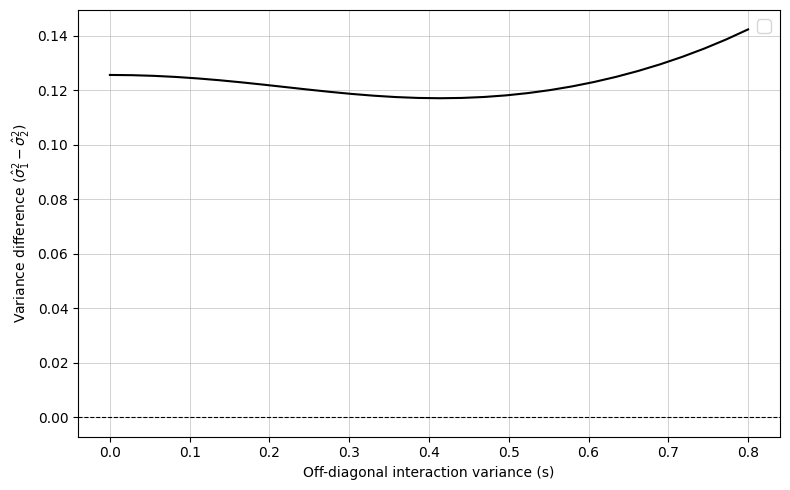
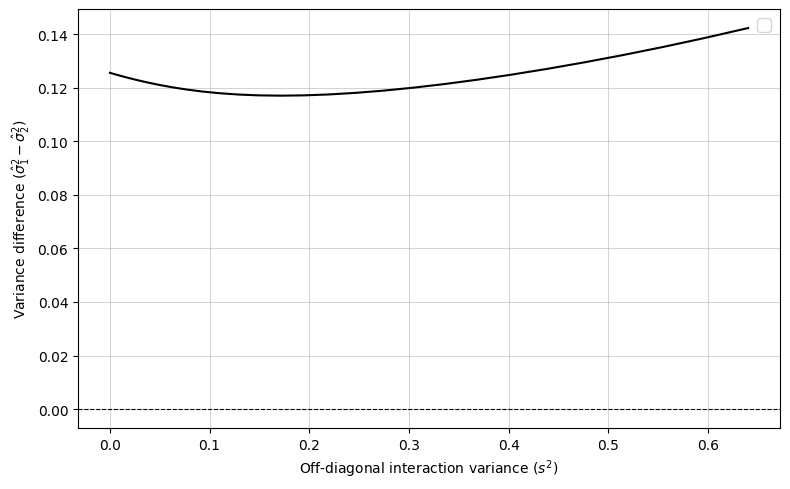
Update plotting functions to square off-diagonal interaction variance and adjust axis labels for clarity; update figures.

diff --git a/Application_2.py b/Application_2.py
@@ -58,14 +58,14 @@ def plot_gamma_vs_s(beta, rho, r, s_min=0.2, s_max=1.4, num_points=100):
     for k in range(K):
         style = line_styles[k] if k < len(line_styles) else '-'
         plt.plot(
-            s_values,
+            s_values**2,
             gamma_values[:, k],
             label=f"Community {k + 1}",
             linestyle=style,
             color='black',
         )
 
-    plt.xlabel("Off-diagonal interaction variance (s)")
+    plt.xlabel("Off-diagonal interaction variance ($s^2$)")
     plt.ylabel(r"$\gamma_k$ (persistence)")
     plt.legend(fontsize=13)
     plt.grid(True, linewidth=0.4)
@@ -94,14 +94,14 @@ def plot_sigma_vs_s(beta, rho, r, s_min=0.2, s_max=1.4, num_points=100):
     for k in range(K):
         style = line_styles[k] if k < len(line_styles) else '-'
         plt.plot(
-            s_values,
+            s_values**2,
             sigma_values[:, k],
             label=f"Community {k + 1}",
             linestyle=style,
             color='black',
         )
 
-    plt.xlabel("Off-diagonal interaction variance (s)")
+    plt.xlabel("Off-diagonal interaction variance ($s^2$)")
     plt.ylabel(r"$\hat{\sigma}^2_k$ (abundance variance)")
     plt.legend(fontsize=13)
     plt.grid(True, linewidth=0.4)
@@ -127,8 +127,8 @@ def plot_sigma_diff_vs_s(beta, rho, r, s_min=0.2, s_max=1.4, num_points=100):
         variance_diff[i] = variance[0] - variance[1]
 
     plt.figure(figsize=(8, 5))
-    plt.plot(s_values, variance_diff, color='black')
-    plt.xlabel("Off-diagonal interaction variance (s)")
+    plt.plot(s_values**2, variance_diff, color='black')
+    plt.xlabel("Off-diagonal interaction variance ($s^2$)")
     plt.ylabel(r"Variance difference $(\hat{\sigma}_1^2 - \hat{\sigma}_2^2)$")
     plt.axhline(0.0, color="black", linewidth=0.8, linestyle="--")
     plt.legend(fontsize=13)

diff --git a/Application_3.py b/Application_3.py
@@ -72,8 +72,8 @@ def heatmap_gamma1_vs_s12_s21(beta, r, s12_range, s21_range, s_diag=(0.5, 0.5), 
     vmin, vmax = 0.85, 0.96
     ax = sns.heatmap(
         gamma1_grid,
-        xticklabels=np.round(s12_values, 2),
-        yticklabels=np.round(s21_values, 2),
+        xticklabels=np.round(s12_values**2, 2),
+        yticklabels=np.round(s21_values**2, 2),
         cmap="Greys_r",
         vmin=vmin,
         vmax=vmax,
@@ -87,8 +87,8 @@ def heatmap_gamma1_vs_s12_s21(beta, r, s12_range, s21_range, s_diag=(0.5, 0.5), 
     cbar.ax.yaxis.set_major_formatter(FormatStrFormatter('%.2f'))
     cbar.update_ticks()
     cbar.ax.tick_params(labelsize=12)
-    plt.xlabel(r"$s_{12}$ (Community 2 → 1)")
-    plt.ylabel(r"$s_{21}$ (Community 1 → 2)")
+    plt.xlabel(r"$s^2_{12}$ (Community 2 → 1)")
+    plt.ylabel(r"$s^2_{21}$ (Community 1 → 2)")
     plt.tight_layout()
     plt.show()
 
